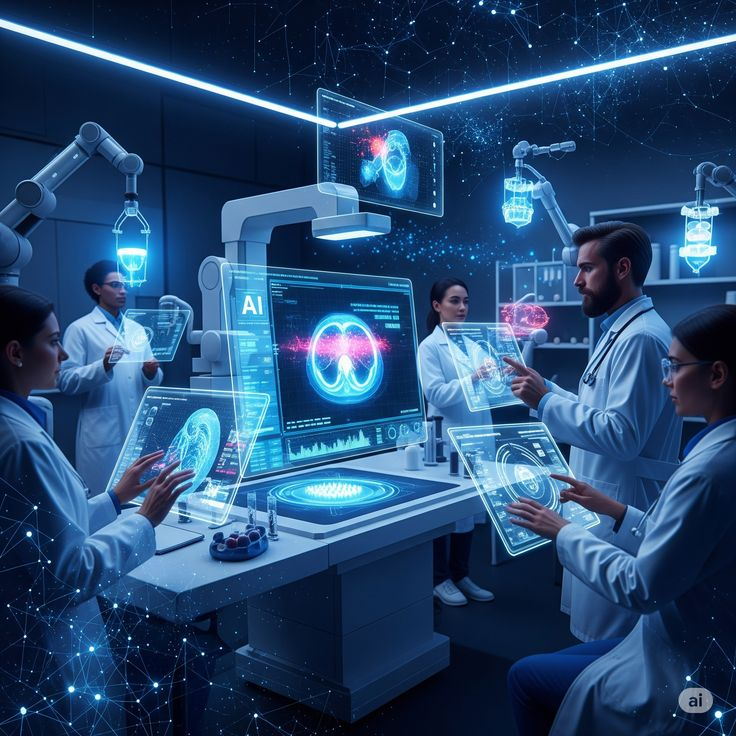
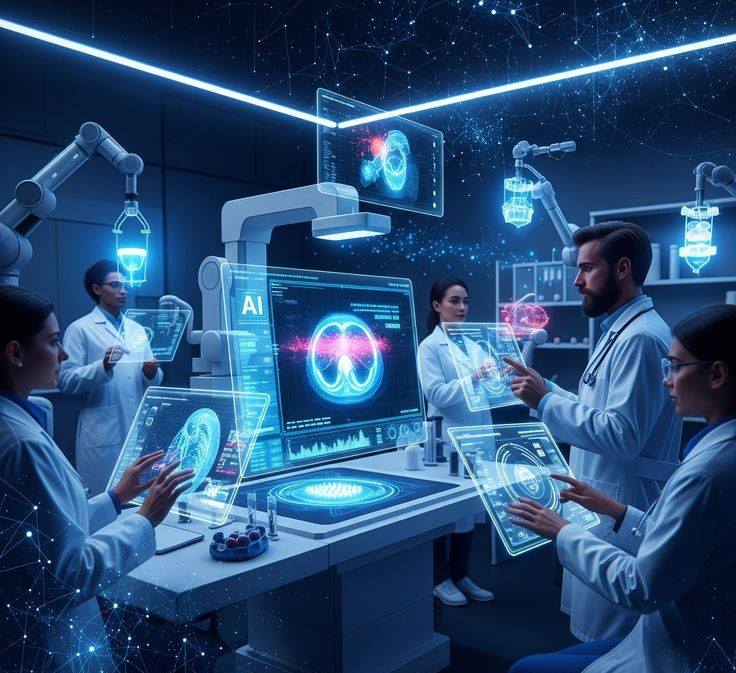
large modification and bug fixing

diff --git a/src/components/Aim.tsx b/src/components/Aim.tsx
@@ -6,6 +6,37 @@ import { useTranslation } from '../contexts/TranslationContext';
 export default function Aim() {
   const { t } = useTranslation();
   
+  // Helper function to render text with highlighted keywords
+  const renderHighlightedText = (text: string, highlights: { phrase: string; color: string; weight: number }[]) => {
+    let result: any[] = [];
+    let remainingText = text;
+    let key = 0;
+
+    highlights.forEach(({ phrase, color, weight }) => {
+      const index = remainingText.indexOf(phrase);
+      if (index !== -1) {
+        // Add text before highlight
+        if (index > 0) {
+          result.push(remainingText.substring(0, index));
+        }
+        // Add highlighted text
+        result.push(
+          <strong key={key++} style={{ color: `var(${color})`, fontWeight: weight }}>
+            {phrase}
+          </strong>
+        );
+        remainingText = remainingText.substring(index + phrase.length);
+      }
+    });
+    
+    // Add remaining text
+    if (remainingText) {
+      result.push(remainingText);
+    }
+    
+    return result;
+  };
+  
   return (
     <section className={styles.outer}>
       <div className={styles.decorative} />
@@ -28,25 +59,19 @@ export default function Aim() {
 
             <Col xs={12} lg={7} data-aos="fade-left" data-aos-delay="200">
               <div className={styles.textCard}>
-                <p className="fs-5 lh-lg mb-3">
-                  {t.aim.description1} <strong style={{ fontWeight:700, color:'var(--primary)' }}>{t.aim.medicalCare}</strong> {t.aim.description2} <strong style={{ fontWeight:700, color:'var(--info)' }}>{t.aim.lowestLevels}</strong> {t.aim.description3} <strong style={{ fontWeight:600, color:'var(--info)' }}>{t.aim.aiAutomation}</strong>
+                <p className="fs-5 mb-4" style={{ textAlign: 'justify', lineHeight: '1.8' }}>
+                  {renderHighlightedText(t.aim.paragraph1, [
+                    { phrase: t.aim.paragraph1.includes('revolutionize') ? 'revolutionize healthcare' : t.aim.paragraph1.includes('révolutionner') ? 'révolutionner les soins de santé' : 'إحداث ثورة في الرعاية الصحية', color: '--primary', weight: 700 },
+                    { phrase: t.aim.paragraph1.includes('faster, safer') ? 'faster, safer, and more accurate' : t.aim.paragraph1.includes('plus rapides, plus sûrs') ? 'plus rapides, plus sûrs et plus précis' : 'أسرع وأكثر أمانًا ودقة', color: '--info', weight: 600 }
+                  ])}
                 </p>
-              </div>
-
-              <div className={styles.pillars}>
-                <p className="fw-bold text-primary text-uppercase small mb-3">{t.aim.keyPillars}</p>
-                <div className="d-flex gap-3 align-items-start mb-2">
-                  <div className={styles.bulletDot} />
-                  <p className="fs-6 mb-0">{t.aim.pillar1}</p>
-                </div>
-                <div className="d-flex gap-3 align-items-start mb-2">
-                  <div className={styles.bulletDot} />
-                  <p className="fs-6 mb-0">{t.aim.pillar2}</p>
-                </div>
-                <div className="d-flex gap-3 align-items-start mb-2">
-                  <div className={styles.bulletDot} />
-                  <p className="fs-6 mb-0">{t.aim.pillar3}</p>
-                </div>
+                <p className="fs-5 mb-4" style={{ textAlign: 'justify', lineHeight: '1.8' }}>
+                  {renderHighlightedText(t.aim.paragraph2, [
+                    { phrase: t.aim.paragraph2.includes('Intelligent EMR') ? 'Intelligent EMR systems' : t.aim.paragraph2.includes('systèmes DME') ? 'Les systèmes DME intelligents' : 'أنظمة السجلات الطبية الإلكترونية الذكية', color: '--primary', weight: 700 },
+                    { phrase: t.aim.paragraph2.includes('smarter and more informed') ? 'smarter and more informed' : t.aim.paragraph2.includes('plus intelligente et plus éclairée') ? 'plus intelligente et plus éclairée' : 'أكثر ذكاءً واستنارة', color: '--info', weight: 600 },
+                    { phrase: t.aim.paragraph2.includes('shaping the future') ? 'shaping the future' : t.aim.paragraph2.includes('façonne l\'avenir') ? 'façonne l\'avenir' : 'يشكل مستقبل', color: '--primary', weight: 700 }
+                  ])}
+                </p>
               </div>
             </Col>
           </Row>

diff --git a/src/components/About.tsx b/src/components/About.tsx
@@ -6,6 +6,37 @@ import { useTranslation } from '../contexts/TranslationContext';
 export default function About() {
   const { t } = useTranslation();
   
+  // Helper function to render text with highlighted keywords
+  const renderHighlightedText = (text: string, highlights: { phrase: string; color: string; weight: number }[]) => {
+    let result: any[] = [];
+    let remainingText = text;
+    let key = 0;
+
+    highlights.forEach(({ phrase, color, weight }) => {
+      const index = remainingText.indexOf(phrase);
+      if (index !== -1) {
+        // Add text before highlight
+        if (index > 0) {
+          result.push(remainingText.substring(0, index));
+        }
+        // Add highlighted text
+        result.push(
+          <strong key={key++} style={{ color: `var(${color})`, fontWeight: weight }}>
+            {phrase}
+          </strong>
+        );
+        remainingText = remainingText.substring(index + phrase.length);
+      }
+    });
+    
+    // Add remaining text
+    if (remainingText) {
+      result.push(remainingText);
+    }
+    
+    return result;
+  };
+  
   return (
     <section className={styles.outer}>
       <div className={styles.decorative} />
@@ -27,24 +58,20 @@ export default function About() {
             </Col>
 
             <Col xs={12} lg={7} data-aos="fade-left" data-aos-delay="200">
-              <p className="fs-5 mb-4">
-                <strong style={{ fontWeight: 700, color: 'var(--primary)' }}>Quantum Vita</strong> {t.about.description} <strong style={{ fontWeight: 600, color: 'var(--info)' }}>{t.about.unifyWorkflows}</strong>{t.about.description2} <strong style={{ fontWeight: 600, color: 'var(--secondary)' }}>AI-powered insights</strong> {t.about.description3}
+              <p className="fs-5 mb-4" style={{ textAlign: 'justify', lineHeight: '1.8' }}>
+                {renderHighlightedText(t.about.paragraph1, [
+                  { phrase: t.about.paragraph1.includes('key problem') ? 'key problem in modern healthcare' : t.about.paragraph1.includes('problème clé') ? 'problème clé dans les soins de santé modernes' : 'مشكلة رئيسية في الرعاية الصحية الحديثة', color: '--primary', weight: 700 },
+                  { phrase: t.about.paragraph1.includes('fragmented') ? 'fragmented software' : t.about.paragraph1.includes('fragmentés') ? 'logiciels fragmentés' : 'البرامج المجزأة', color: '--info', weight: 600 }
+                ])}
               </p>
-
-              <div className={styles.bullets}>
-                <div className={styles.bulletRow}>
-                  <div className={styles.bulletDot} />
-                  <p className="fs-6 mb-0">{t.about.bullet1}</p>
-                </div>
-                <div className={styles.bulletRow}>
-                  <div className={styles.bulletDot} />
-                  <p className="fs-6 mb-0">{t.about.bullet2}</p>
-                </div>
-                <div className={styles.bulletRow}>
-                  <div className={styles.bulletDot} />
-                  <p className="fs-6 mb-0">{t.about.bullet3}</p>
-                </div>
-              </div>
+              
+              <p className="fs-5 mb-4" style={{ textAlign: 'justify', lineHeight: '1.8' }}>
+                {renderHighlightedText(t.about.paragraph2, [
+                  { phrase: t.about.paragraph2.includes('real clinical') ? 'real clinical workflows' : t.about.paragraph2.includes('véritables flux') ? 'véritables flux de travail cliniques' : 'سير العمل السريري الحقيقي', color: '--primary', weight: 700 },
+                  { phrase: t.about.paragraph2.includes('AI-powered') ? 'AI-powered documentation' : t.about.paragraph2.includes('assistée par IA') ? 'documentation assistée par IA' : 'التوثيق المدعوم بالذكاء الاصطناعي', color: '--info', weight: 600 },
+                  { phrase: t.about.paragraph2.includes('one secure') ? 'one secure system' : t.about.paragraph2.includes('système sécurisé') ? 'un système sécurisé' : 'نظام آمن واحد', color: '--primary', weight: 700 }
+                ])}
+              </p>
             </Col>
           </Row>
         </Container>

diff --git a/src/components/Features.tsx b/src/components/Features.tsx
@@ -163,7 +163,6 @@ export default function Features() {
             {features.map((f, i) => (
               <Col xs={12} md={6} lg={4} key={i} data-aos="zoom-in" data-aos-delay={i * 50}>
                 <Card className={styles.card} onClick={() => handleShowDetails(f, i)} style={{ cursor: 'pointer' }}>
-                  <div className={styles.badge}>{i + 1}</div>
                   <Card.Img variant="top" src={f.image} alt={f.title} className={styles.cardImg} />
                   <Card.Body>
                     <Card.Title className={styles.title}>{f.title}</Card.Title>
